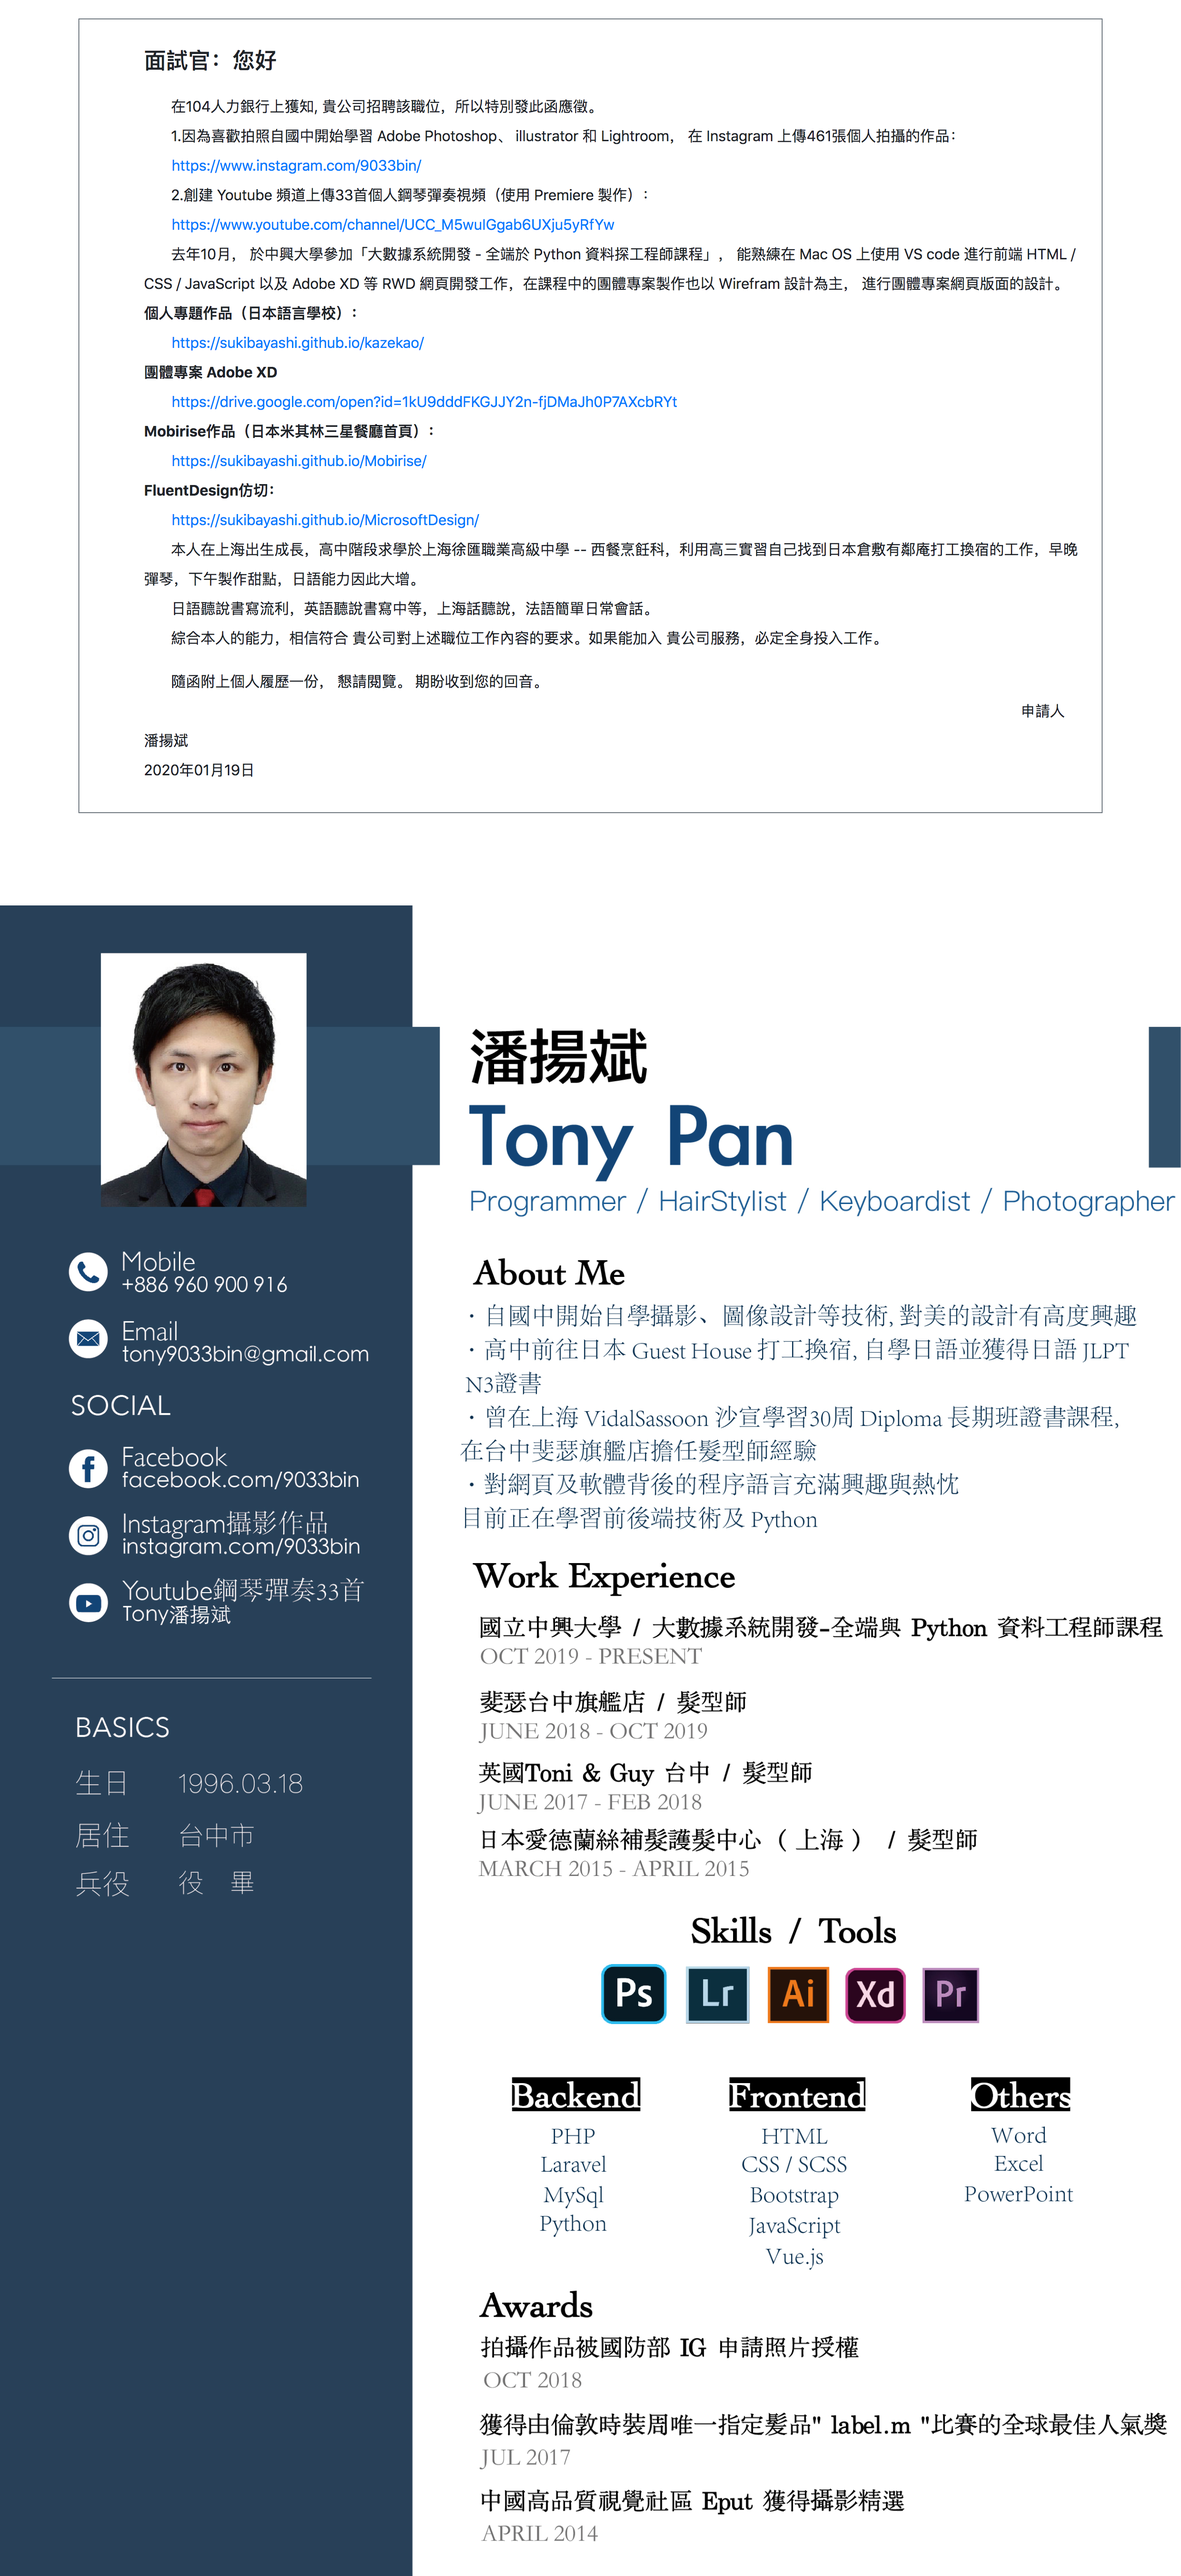
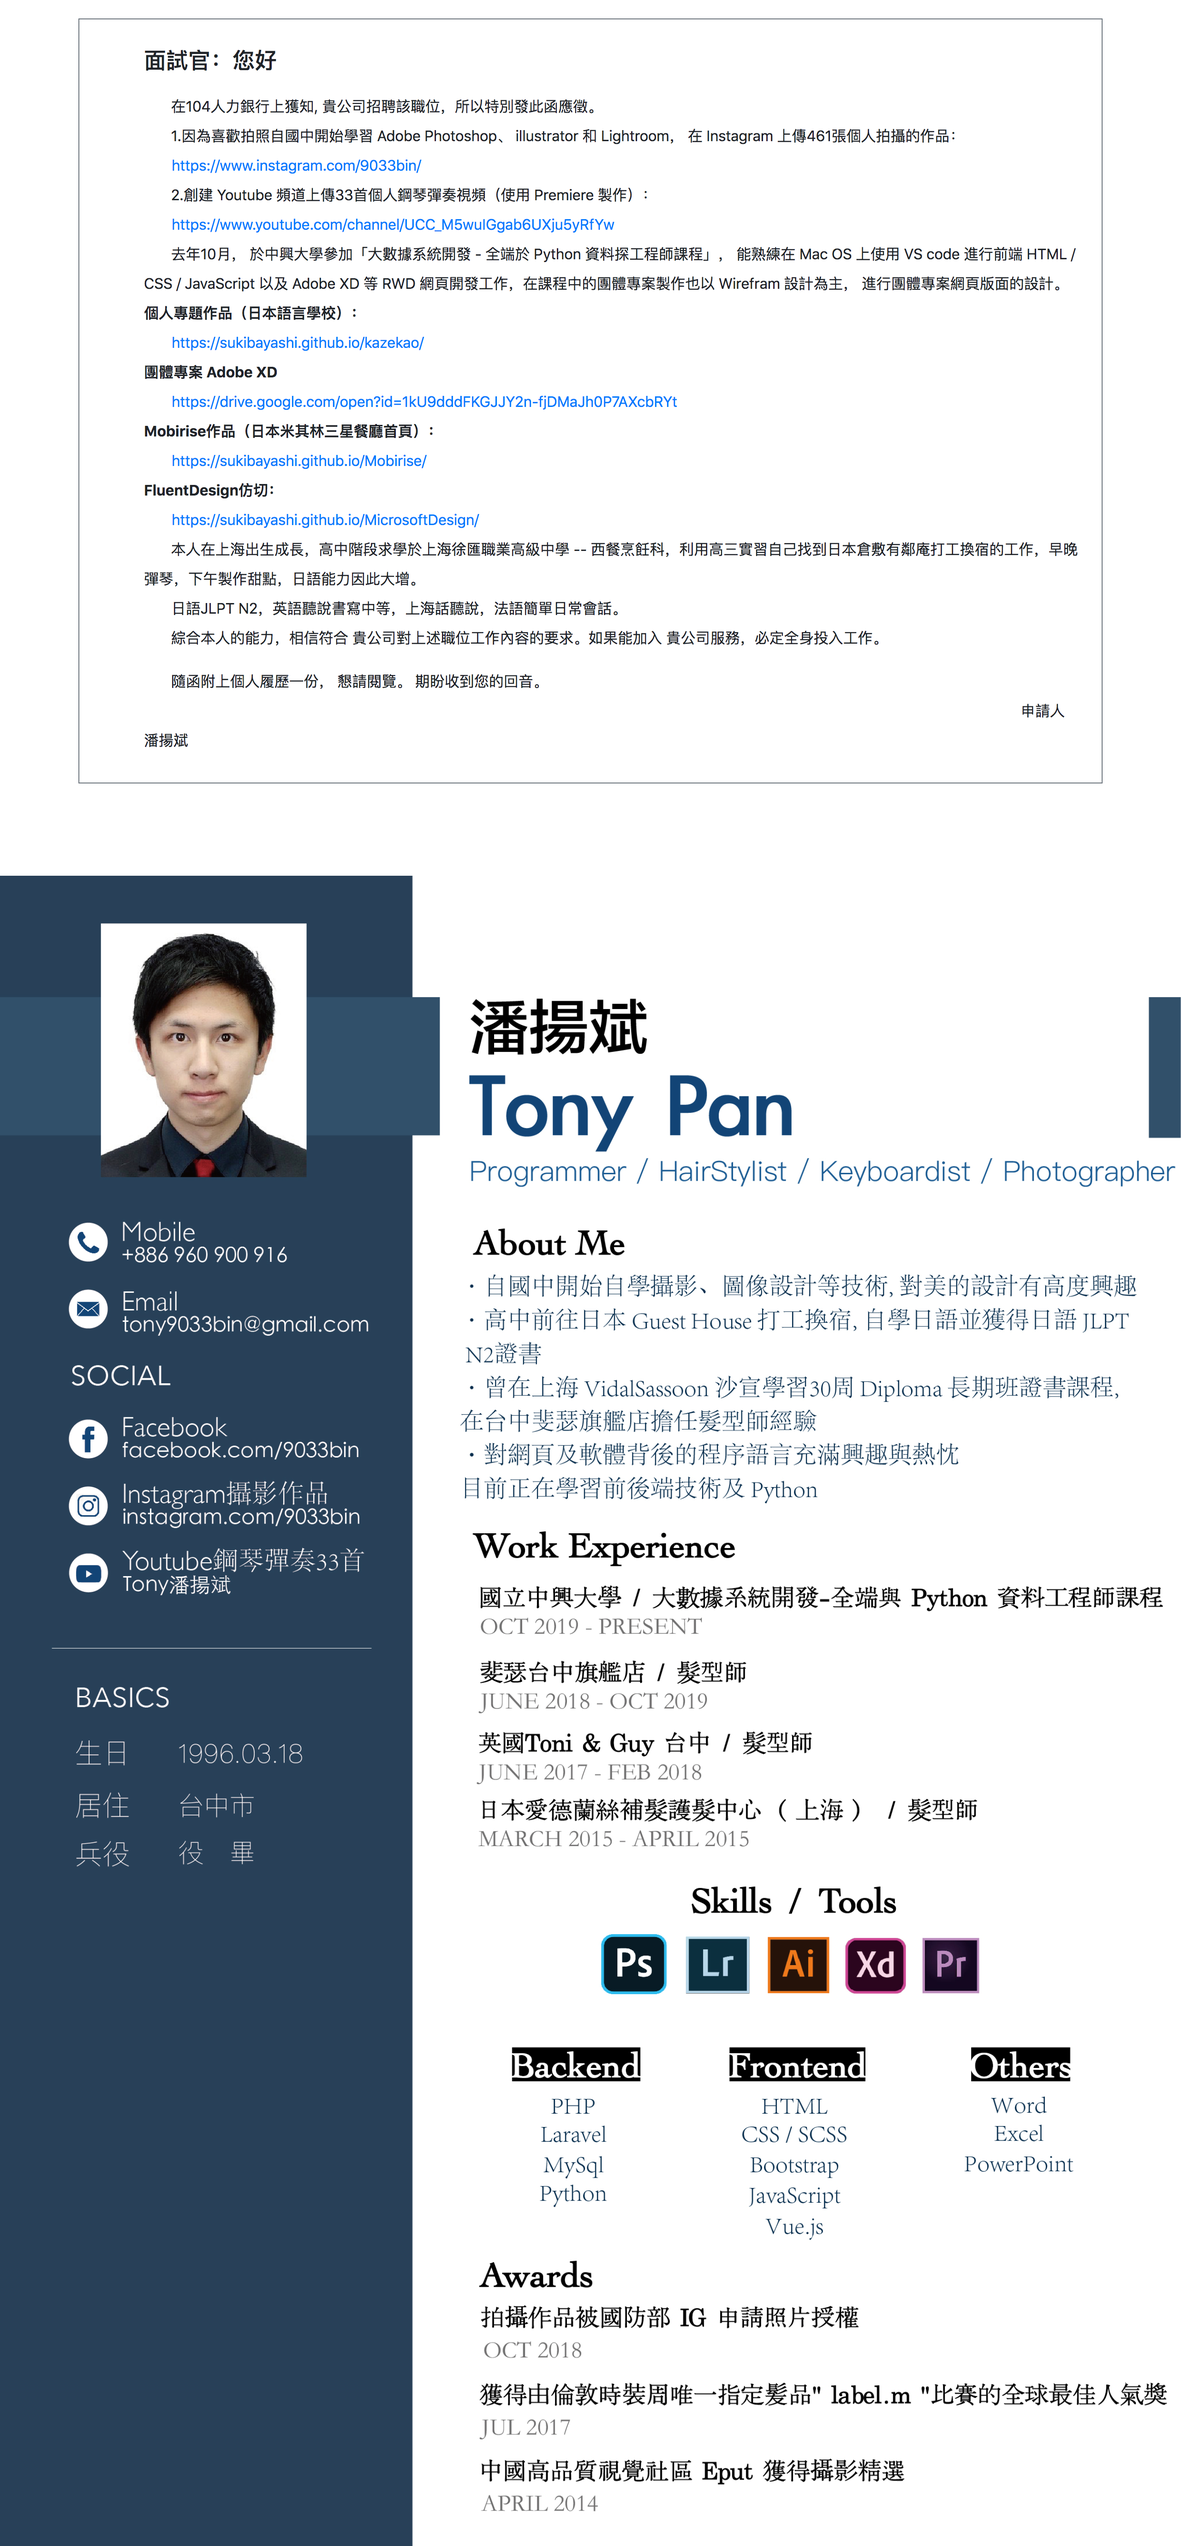
update

diff --git a/index.html b/index.html
@@ -49,7 +49,7 @@
                 <p>
                     &nbsp &nbsp &nbsp &nbsp本人在上海出生成長，高中階段求學於上海徐匯職業高級中學 -- 西餐烹飪科，利用高三實習自己找到日本倉敷有鄰庵打工換宿的工作，早晚彈琴，下午製作甜點，日語能力因此大增。
                     <br>
-                    &nbsp &nbsp &nbsp &nbsp日語聽說書寫流利，英語聽說書寫中等，上海話聽說，法語簡單日常會話。
+                    &nbsp &nbsp &nbsp &nbsp日語JLPT N2，英語聽說書寫中等，上海話聽說，法語簡單日常會話。
                     
                     <br>
                     &nbsp &nbsp &nbsp &nbsp綜合本人的能力，相信符合 貴公司對上述職位工作內容的要求。如果能加入 貴公司服務，必定全身投入工作。
@@ -57,7 +57,7 @@
                 <div class="end">&nbsp &nbsp &nbsp &nbsp隨函附上個人履歷一份， 懇請閱覽。 期盼收到您的回音。</div>
                 <div class="applicant">申請人</div>
                 <div class="name">潘揚斌</div>
-                <div class="date">2020年01月19日</div>
+                <!-- <div class="date">2020年01月19日</div> -->
             </div>
         </div>
         <img class="resumeAi" src="./img/ResumePrint.jpg" alt="">
